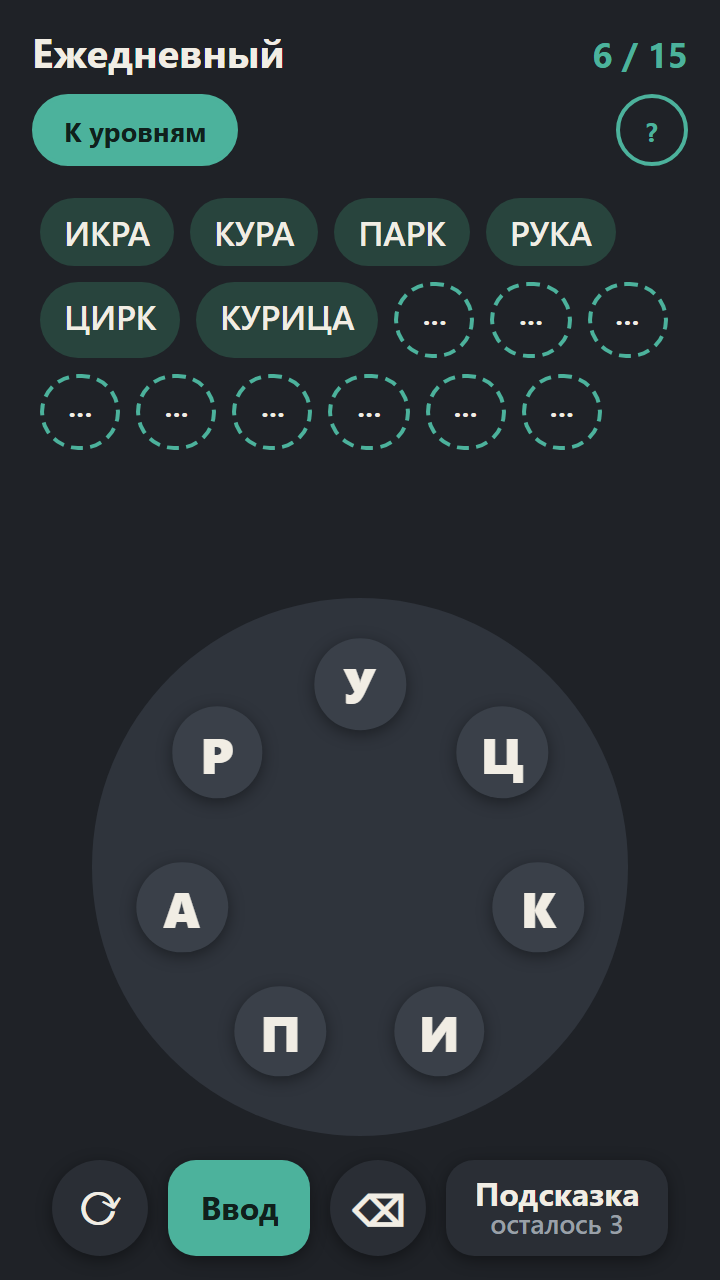
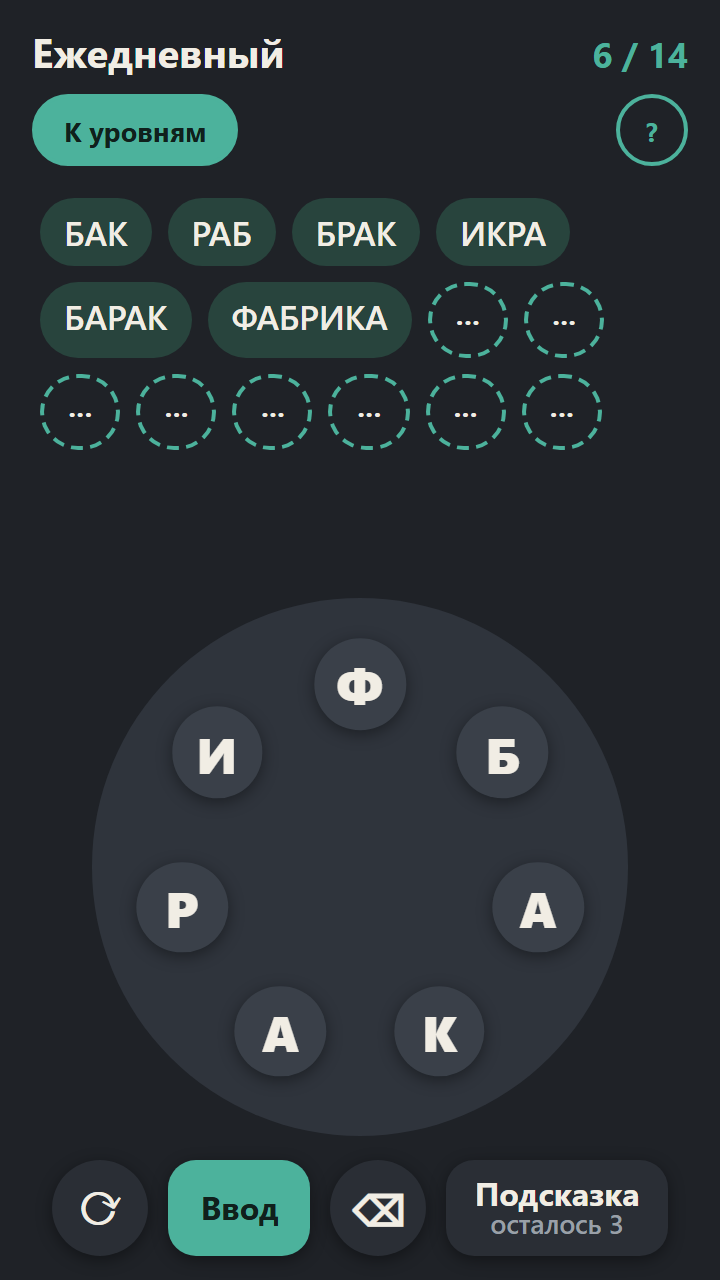
Second dictionary pass: drop names, alcohol/drug/vulgar words from base-word lists

diff --git a/docs/status.md b/docs/status.md
@@ -35,10 +35,10 @@ tar -a -c -f dist/slova.zip index.html css js data
 
 ## Словарь (подключён 2026-10-22)
 - Источник: `nouns.csv` (8 378 501 байт) из [Badestrand/russian-dictionary](https://github.com/Badestrand/russian-dictionary) (данные OpenRussian и Wiktionary), лицензия **CC BY-SA 4.0**. Скачан с разрешения пользователя в папку рабочей области (вне проекта), в проект положены только результат и текст лицензии.
-- Преобразование: `node tools/build-dict.mjs <nouns.csv> data/words.txt`. Берётся первый столбец; слова только из строчных букв а-я (заглавные — имена и аббревиатуры — отброшены), длина 3–8, «ё»→«е», повторы убраны, без слов без гласных, стоп-лист `tools/stoplist.txt`. Получилось 14 944 слова (≈203 КБ), после стоп-листа 2026-10-26 — 14 805. Порядок источника (частотность) сохранён.
+- Преобразование: `node tools/build-dict.mjs <nouns.csv> data/words.txt`. Берётся первый столбец; слова только из строчных букв а-я (заглавные — имена и аббревиатуры — отброшены), длина 3–8, «ё»→«е», повторы убраны, без слов без гласных, стоп-лист `tools/stoplist.txt`. Получилось 14 944 слова (≈203 КБ), после стоп-листа 2026-10-26 — 14 735. Порядок источника (частотность) сохранён.
 - Базовые слова уровней берутся из первых 5000 слов (самые употребимые), `minSub = 8`; подсказка открывает самое частотное из ненайденных слов; принимаются все слова словаря.
 - Условия лицензии: указание авторства в игре (небольшая подпись в окне «Уровень пройден», простой текст без ссылок, чтобы не нарушить правила Яндекса о внешних ресурсах), `data/NOTICE.txt` и текст лицензии в архиве; список слов считается производным и распространяется на тех же условиях CC BY-SA 4.0. Код игры отдельный.
-- Проверка 2026-10-26: прогнали уровни 1–60 и все 3-буквенные слова скриптом (игру в браузере не играли руками; вид проверен в предпросмотре). В стоп-лист добавлено ≈160 слов: оскорбления и вульгарные слова (чурка, жид, хач, жопа и т. п.), аббревиатуры (пво, нпо, оао, ооо, нато, камаз, зил и др.), имена, редкие слова-базы (валек, райком, полянин). Стоп-лист теперь читается по пробелам и строкам. `nouns.csv` в этой сессии не искали заново: стоп-лист применён к готовому `words.txt` через `tools/apply-stoplist.mjs` (результат тот же, что у пересборки). Сейчас 14 805 слов. Сленг и устаревшие слова остались, это допустимо; следить за жалобами и пополнять `stoplist.txt`; тест `test/progress.test.mjs` проверяет, что слова из стоп-листа не просочились.
+- Проверка 2026-10-26: прогнали уровни 1–60 и все 3-буквенные слова скриптом (игру в браузере не играли руками; вид проверен в предпросмотре). В стоп-лист добавлено ≈160 слов: оскорбления и вульгарные слова (чурка, жид, хач, жопа и т. п.), аббревиатуры (пво, нпо, оао, ооо, нато, камаз, зил и др.), имена, редкие слова-базы (валек, райком, полянин). Стоп-лист теперь читается по пробелам и строкам. `nouns.csv` в этой сессии не искали заново: стоп-лист применён к готовому `words.txt` через `tools/apply-stoplist.mjs` (результат тот же, что у пересборки). Второй проход (2026-10-26, тот же день): просмотрены все 827 базовых слов обычных уровней и 674 базовых слова ежедневного; убраны географические и личные имена (анджелес, америка, наполеон…), политические и военные аббревиатуры (госдума, партком, вермахт…), алкоголь, наркотики, сексуальные и бранные слова. Сейчас 14 735 слов. Проверены только базовые слова, остальной словарь на имена (города, фамилии) целиком не просматривался: пополнять по жалобам. Сленг и устаревшие слова остались, это допустимо; следить за жалобами и пополнять `stoplist.txt`; тест `test/progress.test.mjs` проверяет, что слова из стоп-листа не просочились.
 
 ## Материалы карточки (2026-10-26)
 - В `store/`: `icon-512.png`, `cover-800x470.png`, 4 скриншота 720×1280 (уровень с жестом, ежедневный уровень в тёмной теме, «Уровень пройден», «Как играть»), `card-text.md` (название, описание, «Как играть», заметка о лицензии, рейтинг). Пересборка: `node tools/make-store-art.mjs` (нужен Chrome; скрипт сам поднимает сервер и headless Chrome, жмёт буквы как игрок).

diff --git a/README.md b/README.md
@@ -31,7 +31,7 @@ tar -a -c -f dist/slova.zip index.html css js data
 - `js/progress.js` — чистая логика сохранений: слияние локального и облачного, серия дней, защита рекламы (под тестами).
 - `js/storage.js` — сохранение прогресса в localStorage (облако Яндекса — через `js/sdk.js`).
 - `js/main.js` — интерфейс и ход игры.
-- `data/words.txt` — словарь существительных (14 805 слов, порядок по частотности).
+- `data/words.txt` — словарь существительных (14 735 слов, порядок по частотности).
 - `tools/build-dict.mjs` — сборка словаря из `nouns.csv`; `tools/stoplist.txt` — исключённые имена, аббревиатуры и грубые слова; `tools/apply-stoplist.mjs` — применить стоп-лист к готовому `words.txt` без `nouns.csv`.
 - `tools/make-store-art.mjs` — иконка, обложка и скриншоты для карточки в `store/` (нужен Chrome); тексты карточки: `store/card-text.md`.
 
